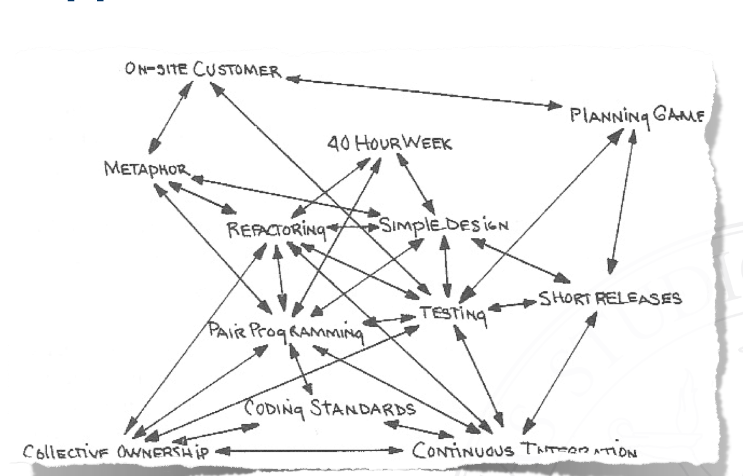
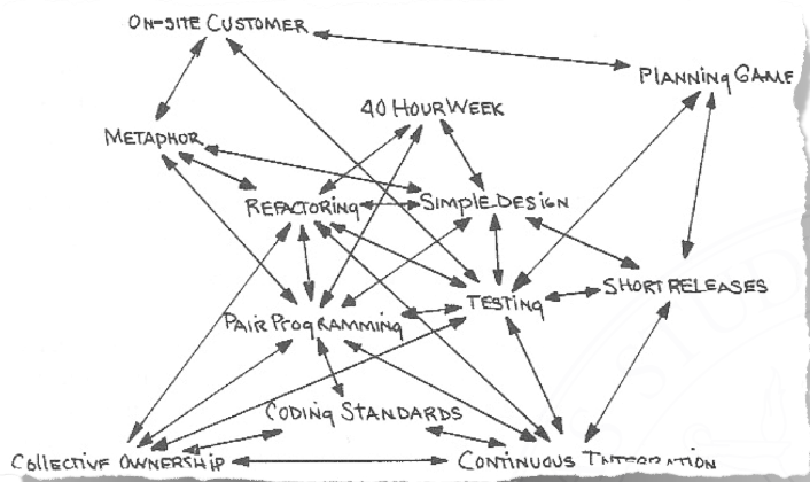
Refactor first notes on planning game + fixes
Fixes:
- Resized a number of images to make them appear in jekyll
- Uniformated headers for XP techniques

Changed region(s): [[0.0, 0.0294, 1.0, 1.0], [0.3715, 0.2353, 0.4024, 0.2647], [0.3405, 0.2647, 0.3715, 0.2941]]

diff --git a/_posts/2022-10-10-extreme-programming.md b/_posts/2022-10-10-extreme-programming.md
@@ -154,37 +154,51 @@ Come si vede, per migliorare la fiducia tra sviluppatore e cliente sono necessar
 
 ## Tecniche XP
 
-L'extreme programming fornisce una serie di pratiche per poter garantire tutto ciò che è stato descritto fino ad ora. Lo schema sottostante le descrive mettendole in relazione tra loro in modo che i vari aspetti negativi delle diferse pratiche siano compensati dagli aspetti positivi di quelle in relazione con loro. In sostanza abbiamo un mix perfetto di attività organizzate in modo da garantire i principi.
+L'extreme programming fornisce una serie di metodologie pratiche per poter garantire tutto ciò che è stato descritto fino ad ora. Lo schema sottostante le descrive mettendole in relazione tra loro in modo che i vari aspetti negativi delle diverse pratiche siano compensati dagli aspetti positivi di quelle in relazione con loro; in sostanza abbiamo un mix perfetto di attività organizzate in modo da garantire i buoni principi di cui sopra.
 
 {% responsive_image path: assets/03_approccio.png %}
 
 ### 1. Planning game
-È l'attività che viene fatta all'inizio dell'iterazione e serve per "congelare" il sottoinsieme di requisiti sul quale il team lavorerà per le prossime ~2 settimane.
 
-Si inizia da dalle richieste del cliente, ovvero le _user stories_, una versione semplificata degli _use case_ degli UML; hanno come soggetto sempre un ruolo specifico nell'azienda del cliente.
-Lo scopo del planning game è determinare quali funzionalità saranno presenti nel prossimo rilasio, combinando priorità commerciali e valutazioni tecniche, questo richiede una collaborazione con il cliente, che come vedremo sarà in loco (in scrum si introduce un "product owner portavoce del cliente").
+È l'attività di pianificazione che viene fatta all'inizio di ogni iterazione e serve per "congelare" il sottoinsieme di requisiti sul quale il team lavorerà per le prossime ~2 settimane.
+
+Si parte dalle richieste del cliente espresse tramite _user stories_, una versione semplificata degli _use case_ degli UML; esse hanno come soggetto sempre un ruolo specifico nell'azienda del cliente e descrivono una funzionalità: un esempio di storia potrebbe essere per esempio "_Come utente autenticato posso accedere all'area riservata._" Lo scopo del planning game è dunque quello di determinare quali funzionalità saranno presenti nel prossimo rilascio combinando priorità commerciali e valutazioni tecniche: questo richiede una collaborazione da parte del cliente, che come vedremo sarà presente in loco al momento della decisione.
 
 #### Procedura
-<!-- immagine scheda -->
-1. All'inizio il cliente prepara le carte, che sono piccole in modo da non scrivere tanto. In ogni carta c'è:
-- un identificativo;
-- una breve descrizione che descrive uno scenario d'uso;
-- un caso di test che funge da test d'accettazione (in sostanza un esempio, possono essere anche un paio, un caso posiitvo e uno negativo);
-- il valore di business che ha per il cliente.
-2. Il team di sviluppatori stima il tempo necessitario: ognuno dà la propria stima. Sul retro della carte si tiene un resoconto di ciò che si è fatto. Un sviluppatore prende il ruolo di _tracker_ e si impegna a tracciare lo stato di avanzamento durante le due settimane (per esempio quante feature fatte, quanti bug segnalati, ecc).
-3. Il manager quindi sulla base di queste informazioni decide quali schede verranno implementate alla prossima iterazione. Le varie funzionalità rappresentate nelle carte in teoria sono indipendenti, quindi il manager per compiere queste scelte calcola il valore fratto tempo stimato e ordina le carte, in questo modo può scegliere meccanicamente le schede da utilizzare durante l'iterazione (in realtà compie dei ragionamenti, quindi non è un'operazione così meccanica).
 
-### Le stime
-Le stime sono fatte da parte del team, composto da persone diverse chee quindi faranno stime diverse. Questo è dato anche dall'esperienza del team, lo svilupatore junior può non essere in grado di dare una stima siccome è alle prime armi, o comunque stimerà un tempo maggiore rispetto ad uno sviluppatore esperto, ma in ogni caso è tenuto anche lui a dare un'opinione.
+Quest'attività di pianificazione si divide fondamentalmente in tre fasi:
 
-possiamo avere stime:
-- __molto differenti__ (ore vs giorni): in questo caso, è possibile che la carta non sia descritta o compresa correttamente; bisogna raggiungere un accordo siccome se uno sviluppatore stima poche ore e un altro qualche giorno abbiamo dei problemi. Se viene deciso che il tempo per una data scheda è di qualche ora e viene assegnato allo sviluppatore che aveva fatto una stima più alta allora si troverà in difficoltà nel portare a termine il compito. in conclusione è necessario trovare un punto di incontro.
-- quasi uniformi, ma __molto alte__: potrebbe essere che la storia sia troppo ampia. Se alla fine dell'iterazione no ho portato a termine il lavoro prefissato è come se non l'avessi fatto, e quindi il suo valore è zero (anche se magari era stato completato all'80%), perchè il cliente non lo avrà alla fine dell'iterazione. Questo concetto è molto importante nelle tecniche agili. Per ovviare a questo problema si può fare lo __splitting__ delle carte, ovvero scomponiamo una carta in più carte in modo da scomporre il problema.
-- non c'è accordo ma __sono simili__: non bisogna prendere la più bassa, alta o la media. Secondo XP bisogna arrivare ad un accordo in modo tale che chiunque nel team si riconosca nella stima effettuata, la stima non è del singolo.
+1. All'inizio il cliente compila le __carte__, nient'altro che pezzetti di carta volutamente piccoli per impedire di scriverci troppo. Su ogni carta è presente:
+    - un identificativo numerico;
+    - una breve frase che descrive uno scenario d'uso;
+    - un caso di test che funge da test d'accettazione della funzionalità: si tratta in sostanza di un paio di esempi, di solito uno positivo e uno negativo, che devono essere soddisfatti per ritenere completa la feature;
+    - il valore di business che la funzionalità ha per il cliente.
 
-La fase di stima dei tempi si porta dietro diverse problematiche, tra cui:
-- perdita di tempo per accordarsi su ciò che si dovrà fare (troppa comunicazione);
-- effetto àncora (anchoring effect): effetto che si verifica quando le persone devono assegnare un valore ad una quantità ignota, se questo viene fatto, tutte le stime successive del valore saranno fatte in riferimento al primo valore deciso. Nel nostro caso quando il team si riunisce per fare delle stime e il primo membro da la sua opinione, tutte le stime successive saranno fatte in confronto alla prima stima fatta. Il cervello unano tende a ragionare in questo modo.
+2. Per ogni carta il team di sviluppatori fa dunque una __stima__ del tempo necessario a realizzarla: raggiunta una stima comune questa viene scritta sulla carta e servirà per confrontare tale previsione con il tempo effettivamente impiegato, di cui si tiene conto sul suo retro. Per ciascuna carta uno sviluppatore assume infatti il ruolo di _tracker_, impegnandosi cioè a tracciare lo stato di avanzamento della relativa funzionalità durante le due settimane (_es. quante feature fatte, quanti bug segnalati, etc._).
+
+3. Il manager decide quindi sulla base di queste informazioni __quali carte verranno implementate__ durante prossima iterazione: per questa operazione prende in considerazione il valore delle feature, le dipendenze tra l'una e l'altra e una serie di altri fattori. Se, come dovrebbe essere, le varie funzionalità rappresentate nelle carte sono indipendenti, il manager può compiere questa scelta calcolando il rapporto tra il valore e il tempo stimato e usarlo per ordinare le carte: tuttavia l'operazione richiede una certa dose di ragionamento e non è mai così meccanica.
+
+{% responsive_image path: assets/03_user-story-card.png %}
+
+#### Le stime
+
+Abbiamo detto che le stime dei tempi vengono fatte dall'intero team in accordo; tuttavia il team è composto da persone diverse che quindi faranno stime diverse in funzione dell'esperienza e delle proprie capacità. È tuttavia importante raggiungere una stima accettata da tutti in quanto il team si impegna a rispettarla: se viene deciso che il tempo per una data scheda è di qualche ora e questa viene assegnata a uno sviluppatore che aveva fatto una stima di qualche giorno allora quest'ultimo si troverà in difficoltà nel portare a termine il compito; per questo motivo è importante il contributo anche degli sviluppatori junior o inesperti.
+
+Al di là del problema del raggiungimento di una stima comune, per il quale vedremo delle tecniche specifiche, ci possono essere una serie di problemi di stima legati alla funzionalità in sé. Potremmo infatti avere stime:
+
+- __molto differenti__ (ore vs giorni): in questo caso, è possibile che la carta non sia descritta o compresa correttamente; se uno sviluppatore stima poche ore e un altro qualche giorno c'è qualche problema.  in conclusione è necessario trovare un punto di incontro.
+
+- quasi uniformi, ma __molto alte__: se la stima supera il tempo di iterazione potrebbe essere che la storia sia troppo ampia. Non si può neanche iniziarla in questo ciclo e continuarla nel prossimo: se alla fine dell'iterazione non ho portato a termine il lavoro prefissato è come se non l'avessi fatto (anche se magari era stato completato all'80%), perché il cliente non lo vede nella release e tale lavoro non è dunque dimostrabile. Per ovviare a questo problema si può fare lo __splitting__ delle carte, ovvero scomporre una carta in più carte in modo da dividere il problema in sotto-problemi.
+
+- non uguali ma __simili__: non bisogna prendere la più bassa, alta o la media. Come abbiamo già detto, secondo XP bisogna arrivare ad un accordo in modo tale che chiunque nel team si riconosca nella stima effettuata.
+
+Oltre a ciò, la fase di stima dei tempi si porta dietro diverse problematiche intrinseche, tra cui:
+
+- __perdita di tempo__: per accordarsi su una stima comune si spende molto tempo (troppa comunicazione);
+
+- __effetto àncora__ (anchoring effect): si tratta di un effetto che si verifica quando bisogna assegnare un valore ad una quantità ignota. Poiché il cervello umano è più bravo a ragionare per relazioni piuttosto che per assoluti, una volta che viene fatta la prima stima numerica questa definisce l'ordine di grandezza delle stime successive, facendo cioè da punto di riferimento da cui è molto difficile distanziarsi: nel nostro caso quando il team si riunisce per fare delle stime e il primo membro dà la sua opinione, tutte le stime successive orbiteranno intorno ad essa. Tale effetto impedisce di fare una stima che prenda obiettivamente in considerazione le sensazioni di tutti i membri del team, e va dunque assolutamente evitato.
+
+Per evitare questi problemi e semplificare il processo di stima si sono sviluppati diversi processi, che data la loro natura giocosa aumentano anche l'engagement degli sviluppatori in questa fase di pianificazione.
 
 #### [Planning poker](https://en.wikipedia.org/wiki/Planning_poker)
 
@@ -192,6 +206,7 @@ La fase di stima dei tempi si porta dietro diverse problematiche, tra cui:
 
 Vengono presentate brevemente le carte con attenzione a non fare riferimento alle tempistiche in modo da non creare subito l'effetto àncora, successivamente il team può fare domande, chiedere chiarimenti e discutere per chiararire assunzioni e rischi.
 Dopodichè ogni componente sceglie una carta del poker per rappresentare la propria stima. Le carte vengono girate contemporaneamente in modo da evitare l'effetto ancora, quindi la prima stima è _blind_. Ci sono anche delle carte particolari, ovvero:
+
 - il punto di domanda indica che non si è in grado di dare una stima
 - la tazza di caffè indica che la riunione è andata troppo per le lunghe e è necessaria una pausa.
 Dopo ogni giro di carte, solo chi ha fatto la stima più bassa e la più alta parlano (per ~1 minuto) per motivare la propria scelta in modo da cercare di trovare un punto in comune. Successivamente tutti fatanno una nuova stima e solitamente le votazioni convergono (non sempre, a volte ci vogliono più "giri" di votazione).
@@ -199,10 +214,12 @@ Sulle carte usate dal team per fare la stima ci sono dei numeri che rappresentan
 Ovviamente non si può pretendere si lavorare delle ore senza alcune distrazioni, quindi in queste stime si considera uno __slacl time__, ovvero un tempo cuscinetto per che comprende il "tempo perso" a causa di distrazioni.
 
 #### [Team Estimation Game](https://agilelearninglabs.com/2012/05/how-to-play-the-team-estimation-game/)
+
 Metodo un po più complesso, si compone in 3 fasi, e alla base si ha un confronto tra i diversi task da fare.
 È facile dire che un task è più facile di un altro, ma il difficile è capire di quanto, quindi il cercare di splittare in fasi questa cosa di dover dare un valore al task considerandone sempre di più difficili può aiutare a fare una buona stima.
 
 ##### PRIMA FASE
+
 {% responsive_image path: assets/03_team-estimation-1.jpg %}
 
 Si fa una pila con le storie e si mette la prima carta al centro del tavolo. I developer si mettono in fila:
@@ -215,6 +232,7 @@ A questo punto abbiamo le carte disposte sul tavolo in colonne di difficoltà co
 Usando questa tecnica abbiamo evitato anche l'effetto àncora, o per lo abbiamo ma diverso (molto più lieve), siccome le stime sono relative, non abbiamo un valore preciso che può influenzare gli altri. A differenza del planning poker posso tornare sulle mie decisioni e quindi ho un continuo adattamento e ripensamento delle stime, grazie al fatto che sono stime relative (e no valori specifici).
 
 ##### SECONDA FASE
+
 Ora si cerca di quantificare le distanze tra le carte.
 
 {% responsive_image path: assets/03_team-estimation-2.jpg %}
@@ -233,11 +251,13 @@ Gli sviluppatori successivi invece possono fare due cose:
 {% responsive_image path: assets/03_fine-seconda-fase-estimation-game.jpg %}
 
 ##### TERZA FASE
+
 Si stima il tempo in ore/uomo di una delle carte più semplici e successivamente si calcolano tutte le colonne in proporzione alla prima.
 Ma questa fase è davvero cosi utile? nella pratica si è visto che non è una utile valutare tutto il lavoro fatto in ore/uomo, anche perchè con il passare del tempo la taratura può variare.
 Possiamo allora prendere tutte le carte portate a termine e assegnamogli un valore, questa cosa si chiama __velocity__.
 
 #### Velocity
+
 La capacità osservata (quindi alla fine dell'osservazione) di qunato sono riuscito a fare in termini di complessità astratta.
 Se per esempio sono riuscito a fare 50 punti nella iterazione appena finita, posso prefissarmi di fare almento 50 punti nell'iterazione successiva.
 La Velocity non può essere usata per dare premi, per confrontare team diversi o punire in caso di diminuzione, però si adatta al modo diverso degli sviluppatori di gestire le stime e anche al fatto che ho una tendenza a sottostimare le diverse carte.
@@ -248,19 +268,23 @@ Acnhe qui abbiamo lo slack time visto nel planning poker.
 
 Esiste un movimento chiamato no estimates, che evita tutta questa parte delle stime, ma dall'esperienza di bellettini si vede che funziona in generale per team molto maturi che sono in grado di guidare il ciente a formulare storie simili intermini di difficoltà, questo perchè tutti hanno una misura standard per le storie.
 
-## 2. Brevi cicli di rilascio
+### 2. Brevi cicli di rilascio
+
 Per ridurre i rischi, la vita e lo sviluppo dell'applicazione sono scanditi dai rilasci di dversioni del prodotto funzionanti. Di solito uno ogni due settimane (come abbiamo visto in scram con il freez, ma con un tempo di rilascio minore). Dobbiamo avere il tempo per sviluppare qualcosa di concreto, e il cliente per poter pensare alle richieste che ha fatto e pensare se ha bisogno di modifiche.
 
-## 3. Uso di una metafora
+### 3. Uso di una metafora
+
 Definire un nuovo vocabolario con cui parlare con l'utente (tecnica _non informatica_) ma anche ai nuovi sviluppatori.
 Serve per permettere una nominazione di classi e metodi omogenei e fornire una vista d'insieme.
 Siccome non c'è una vera documentazione in XP, possiamo usare queste metafore come una vista d'insieme, quindi sostituisce in parte l'architettura del sistema, e fa capire gli elementi fondametali, il loro scopo e le relazioni fra loro. <!-- da scrivere meglio, non chiaro -->
 
-## 4. Semplicità di progetto
+### 4. Semplicità di progetto
+
 chiamata anche l'arte di massimizzare il lavoro non fatto, o da non fare, infatti non è necessario riscrivere cose già esistenti e consolidate. uno slogan tipico è KISS: Keep It Simple, Stupid.
 Questo punto si contrappone al Design for change che viene visto come un appesantimento inutile, perchè una feature che aggiungiamo può essere scartata dal cliente, e quindi abbiamo perso tempo inutilmente.
 
-## 5. Testing
+### 5. Testing
+
 - I clienti scrivono i test di accettazione (o funzionali) sulle schede per aumentare la loro fiducia nel programmi.
 - I programmatori scrivono i test di unità perché la fiducia nel codice diventi parte del programma stesso.
 
@@ -271,7 +295,8 @@ Può essere che non sia stato sviluppato in modalità agile e quindi non sono pr
 
 Un'altra cosa importante è che i test devono coprire tutte le righe di codice.
 
-## 6. Refactoring
+### 6. Refactoring
+
 Non bisogna avere paura di apportare modifiche che semplificano il progetto: bisogna avere coraggio.
 
 Il refactoring è un'operazione che modifica il software __ma non modifica le funzionalità__, quindi tocchiamo solo proprietà interne.
@@ -281,7 +306,8 @@ Deve essere graduale e continua in modo da poter aggiungere funzionalità in man
 
 Se una parte di codice non viene stimolato dai test non è utile ai fini della soluzione, al massimo posso aggiungere dei test per gestire dei casi specifici, se no posso togliere le parti di codice non richiamate dai test.
 
-## 7. Programmazione a coppie
+### 7. Programmazione a coppie
+
 È una tecnica che può portare dei vantaggi, anche se il manager può non rendersi subito conto, infatti paga due persone e una delle due guarda l'altro lavorare, ma non è cosi.
 
 I punti a favore sono:
@@ -292,29 +318,37 @@ I punti a favore sono:
 - Ottenere una _proprietà colettiva_ (conoscenza osmotica), quindi quando programmo con un altra persona posso conoscere il codice scritto dall'altro. Un altro punto importante sono i commenti naif, ovvero quelli fatti dai programmatori junior, sono importanti perchè molto spesso i programmatori esperti devono ripensare a delle cose basilari che danno per scontato, e può succedere che trovino parti di codice che potevano essere scritte meglio o addirittura tolte.
 - Dimenzzare le persone dimezzano la produttività? no, è stimato che la produttività sia una volta e mezzo in più, che comunque sarebbe una perdita. Ma degli studi pongono una domanda, la produttività calcolata puntualmente è davvero sensata da calcolare? no perchè sul lungo (quindi sull'iertazione) ciò che sembrava meno produttivo in realtà lo è di più. Questo perchè una persona da sola deve fare il lavoro, poi passare molto tempo a verificarlo e ricontrollarlo, mentre nella programmazione a coppie questa cosa si verifica costantemente e quindi la parte sul refactoring sarà più leggera perchè in parte già svolta (questa tecnica si chiama __ispezioe del codice__).
 
-## 8. proprietà collettiva
+### 8. proprietà collettiva
+
 L'extreme programming ha cercato di mettere insieme proprietà già esistenti che funzionavano, di fatto non ha inventato niente di nuovo.
 Proprietà collettiva significa che il codice non è di una persona sola ma del team, quindi la responsabilità del codice appaertiene a ogni il team, anche se non lo si conosce tutto alla stessa maniera. Di conseguenza tutti sono autorizzati a metterci mano qualcosa non va, anche a parti che magari ha scritto qualche altro membro.
 Durante il lavoro succedera spesso di cambiare coppia, magari anche più volte al giorno e per diversi motivi, per esempio nessuno dei due ha una profonda conoscienza della parte di codice che stanno trattando, oppure perchè il task da fare non si addice alle competenze della coppia. In ogni caso il continuo riferirsi al team e non al singolo è importatnissimo nell'XP.
 
-## 9. Integrazione continua
+### 9. Integrazione continua
+
 Nell'ottica di avere feedback rapidi è necessario fare l'integrazione spesso, anche più volte al giorno, e questo non significa fare i test di unità e poi alla fine integrare tutti in una bottasola, ma intergrare man mano. Questo perchè è frequente il caso in cui ogni parte è stata testata singolarmente e funziona, ma quando tutti i pezzi vengono messi insieme per formare il prodotto finale qualcosa non funziona, per questo motivo integrando man mano è possibile risolvere meglio questi problemi (questo funziona in ogni campo non solo nello sviluppo software).
 Nello sviluippo software queste intergazioni vengono fatte cosi frequentemente che dopo lo sviluppo anche di una piccola feature è compito della coppia andare ad integrarla nella macchina di riferimento per. Questa macchina di riferimento è una macchina a cui si accede in maniera __esclusiva__ che serve per integrare tutti i lavori delle diverse coppie; questa sequenzialità nell'uso della macchina la si deve garantire anche nel caso in cui ci si acceda da remoto, questo si fa grazie ad un token.
 Il completamento di una use sotry si ha quidi dopo aver integrato la feature, aver testato il suo funzionamento (test di integrazione) e aver mostrato al cliente il risultato della macchina complessiva dopo l'integrazione.
 La macchina è sempre in una situazione monotona creascente per quanto riguarda le funzionalità (io posso andare a rimuovere cose dalla macchina, è per questo che parlo di crescita delle funzionalità e non delle componenti della macchina in se). Inoltre ogni volta che vado ad integrare una parte devo sempre produrre un qualcosa di consegnabile all'utente.
 Un altra motivazione importante della continua integrazione è che se devo integrare qualcosa nella macchina e un'altra coppia prima di me ha aggiunto una parte che non integrava da molto tempo, la probabilità che la macchina funzioni dopo la mia aggiunta è molto bassa, al contrario se tutti integrano molto spesso le probabilità saranno sicuramente molto più alte. Se una coppia non riesce ad integrare bloccherà anche tutte le altre che non possono andare avanti con le use story, quindi sarà necessario che quella coppia rinunci, ritorni sulla sua macchina e cerchi di risolvere li (tutte le coppie hanno una loro macchina su cui testano prima di farlo su quella comune).
 
-## 10. Settimana di 40 ore
+### 10. Settimana di 40 ore
+
 Il mestiere dello sviluppatore ha sempre avuto dei ritmi dettati un po dalle consegne, questo causa dei problemi come per esempio se lavoro di più renderò sicuramente di meno, inoltre porta a stress e frustrazione. Nell'XP si cerca di evitare queste situazioni in modo da avere una resa migliore, avere maggior soddisfazione nel lavorare nel team o nell'azienda, avere meno problemi fuori dal lavoro (tante volte questo eccessivo lavoro può causare problemi familiari) e inoltre abbassa la probabilità per l'azienda di perdere dipendenti. Purtroppo però il mestiere dello sviluppatore non è meccanico e molto spesso si vuole portare a termine quello che si sta facendo perchè magari si è quasi alla soluzione, inoltre si continua a pensare a come risolvere dei problemi anche fuori dall'orario lavorativo.
 
-## 11. Cliente sul posto
+### 11. Cliente sul posto
+
 Fino ad ora abbiamo visto le motivazioni a favore del cliente per cui vengono messe delle persone sul posto dove si sviluppa il progetto, ovvero perchè cosi può essere sicuro che stiamo lavorando per lui e per verificare come procede il progetto. Ma perchè a noi fa comodo avere il cliente sul posto?
 È fondamentale avere il cliente sul posto in modo date da avere qualcuno a cui chiedere in caso di specifiche poco chiare, infatti noi abbiamo a disposizione solo le use story che non sempre sono chiare, quindi avere il cliente a nostra disposizione (lui può comunque continuare a lavorare per la sua azienda, ma noi abbiamo la priorità) ci permette di fargli domande per chiarire i punti delle specifiche, è come avere una documentazione vivente.
 Quindi questo punto è fondamentale, e nel caso in cui il cliente sul posto non sia disponibile dobbiamo trovare degli escamotage per far si di avere comunque un punto di riferimento, però non sarà sicuramente come avere il cliente nel team.
 Anche avere il cliente sul posto ha dei limiti in realtà, infatti dobbiamo avere una persona che riesca ad essere rappresentativo di tutti gli stakeholders.
 Il cliente durante le iterazioni può creare delle altre storie che nell'iterazione successiva potrà inserire nel planning game, e in più è disponibile anche nel caso in cui vogliamo che faccia dei test funzionali.
 
-## 12. Standard di codifica
+<!--- TODO: aggiungere sta roba --->
+(in Scrum si introduce il concetto un "product owner portavoce del cliente")
+
+### 12. Standard di codifica
+
 È necessario avere delle regole che specificano come va scritto il codice, con delle convenzioni comuni, questo per aumentare la comunicazione anche attraverso il codice.
 Vengono utilizzati dei tool per garantire queste convenzioni in modo date da non avere membri del team che non le rispettino, oppure questi strumenti possono anche fare un'autocorrezione del codice per far si che rispetti gli standard.
 Inoltre avere uno standard di codifica aiuta:
@@ -322,7 +356,8 @@ Inoltre avere uno standard di codifica aiuta:
 - la programmazione a coppie
 - le proprietà collettive
 
-## 13. Just rules
+### 13. Just rules
+
 Definiamo ora questa tredicesima regola "non canonica" che è stata aggiunta da alcuni.
 Nel caso in cui non si voglia seguire una regola deve esser fatto da tutto il team, e non solo dal singolo o dalla coppia, e poi alla fine dell'iterazione si fa un resoconto di come sono andate le cose e se nell'iterazione successiva sia il caso di reintrodurre la regola oppure no. In questo resoconto si può anche decidere di sospendere delle regole se si pensa che per il team non siano necessarie o non vadano bene, e successivamente possono essere reintrodotte. In conclusione si possono effettuare questo tipo di test per trovare il giusto equilibrio, e questa ultima regola mostra anche che l'XP non è una tecnica cosi rigida e rigorosa. Questo punto però non è condiviso da tutti e una motivazione la si può trovare nel fatto che tutti i punti sono interconnessi tra loro, e quindio non è possibile studiarli singolarmente senza considerate anche gli altri perchè non avrebbero senso in quanto hanno una forte dipendenza l'una dall'altra (non a caso nei punti sopra si può notare come si influenzino a vicenda).
 
